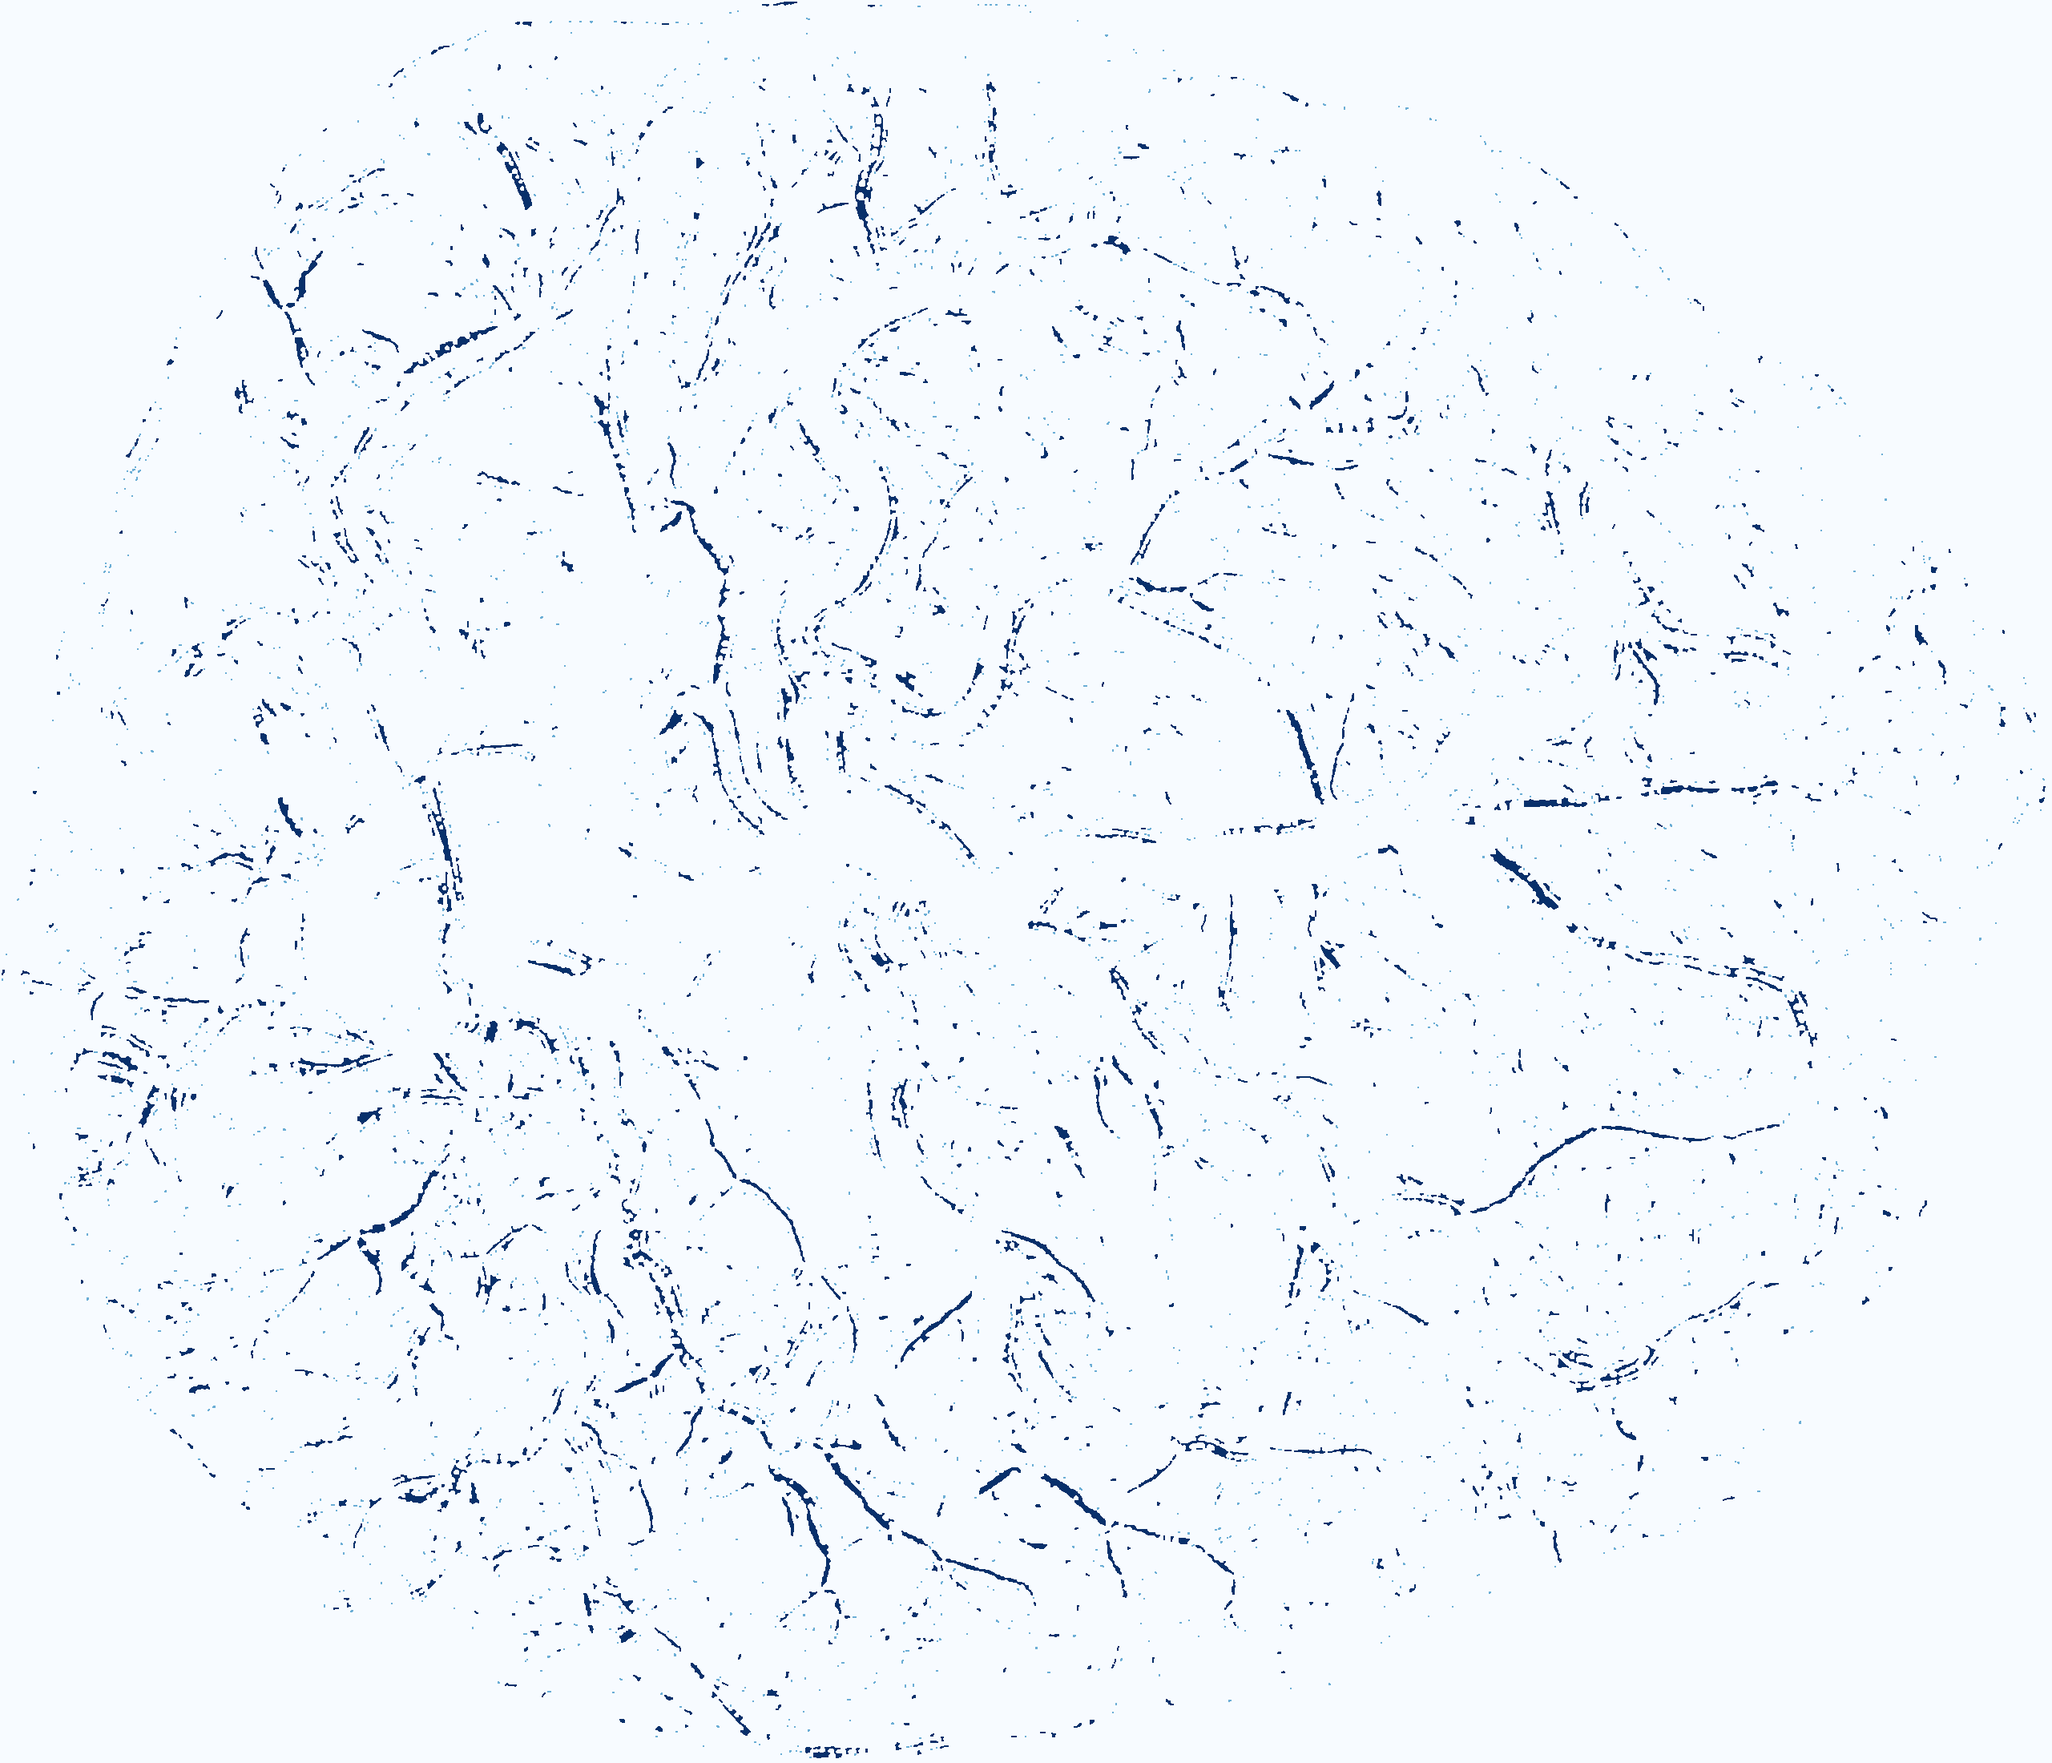
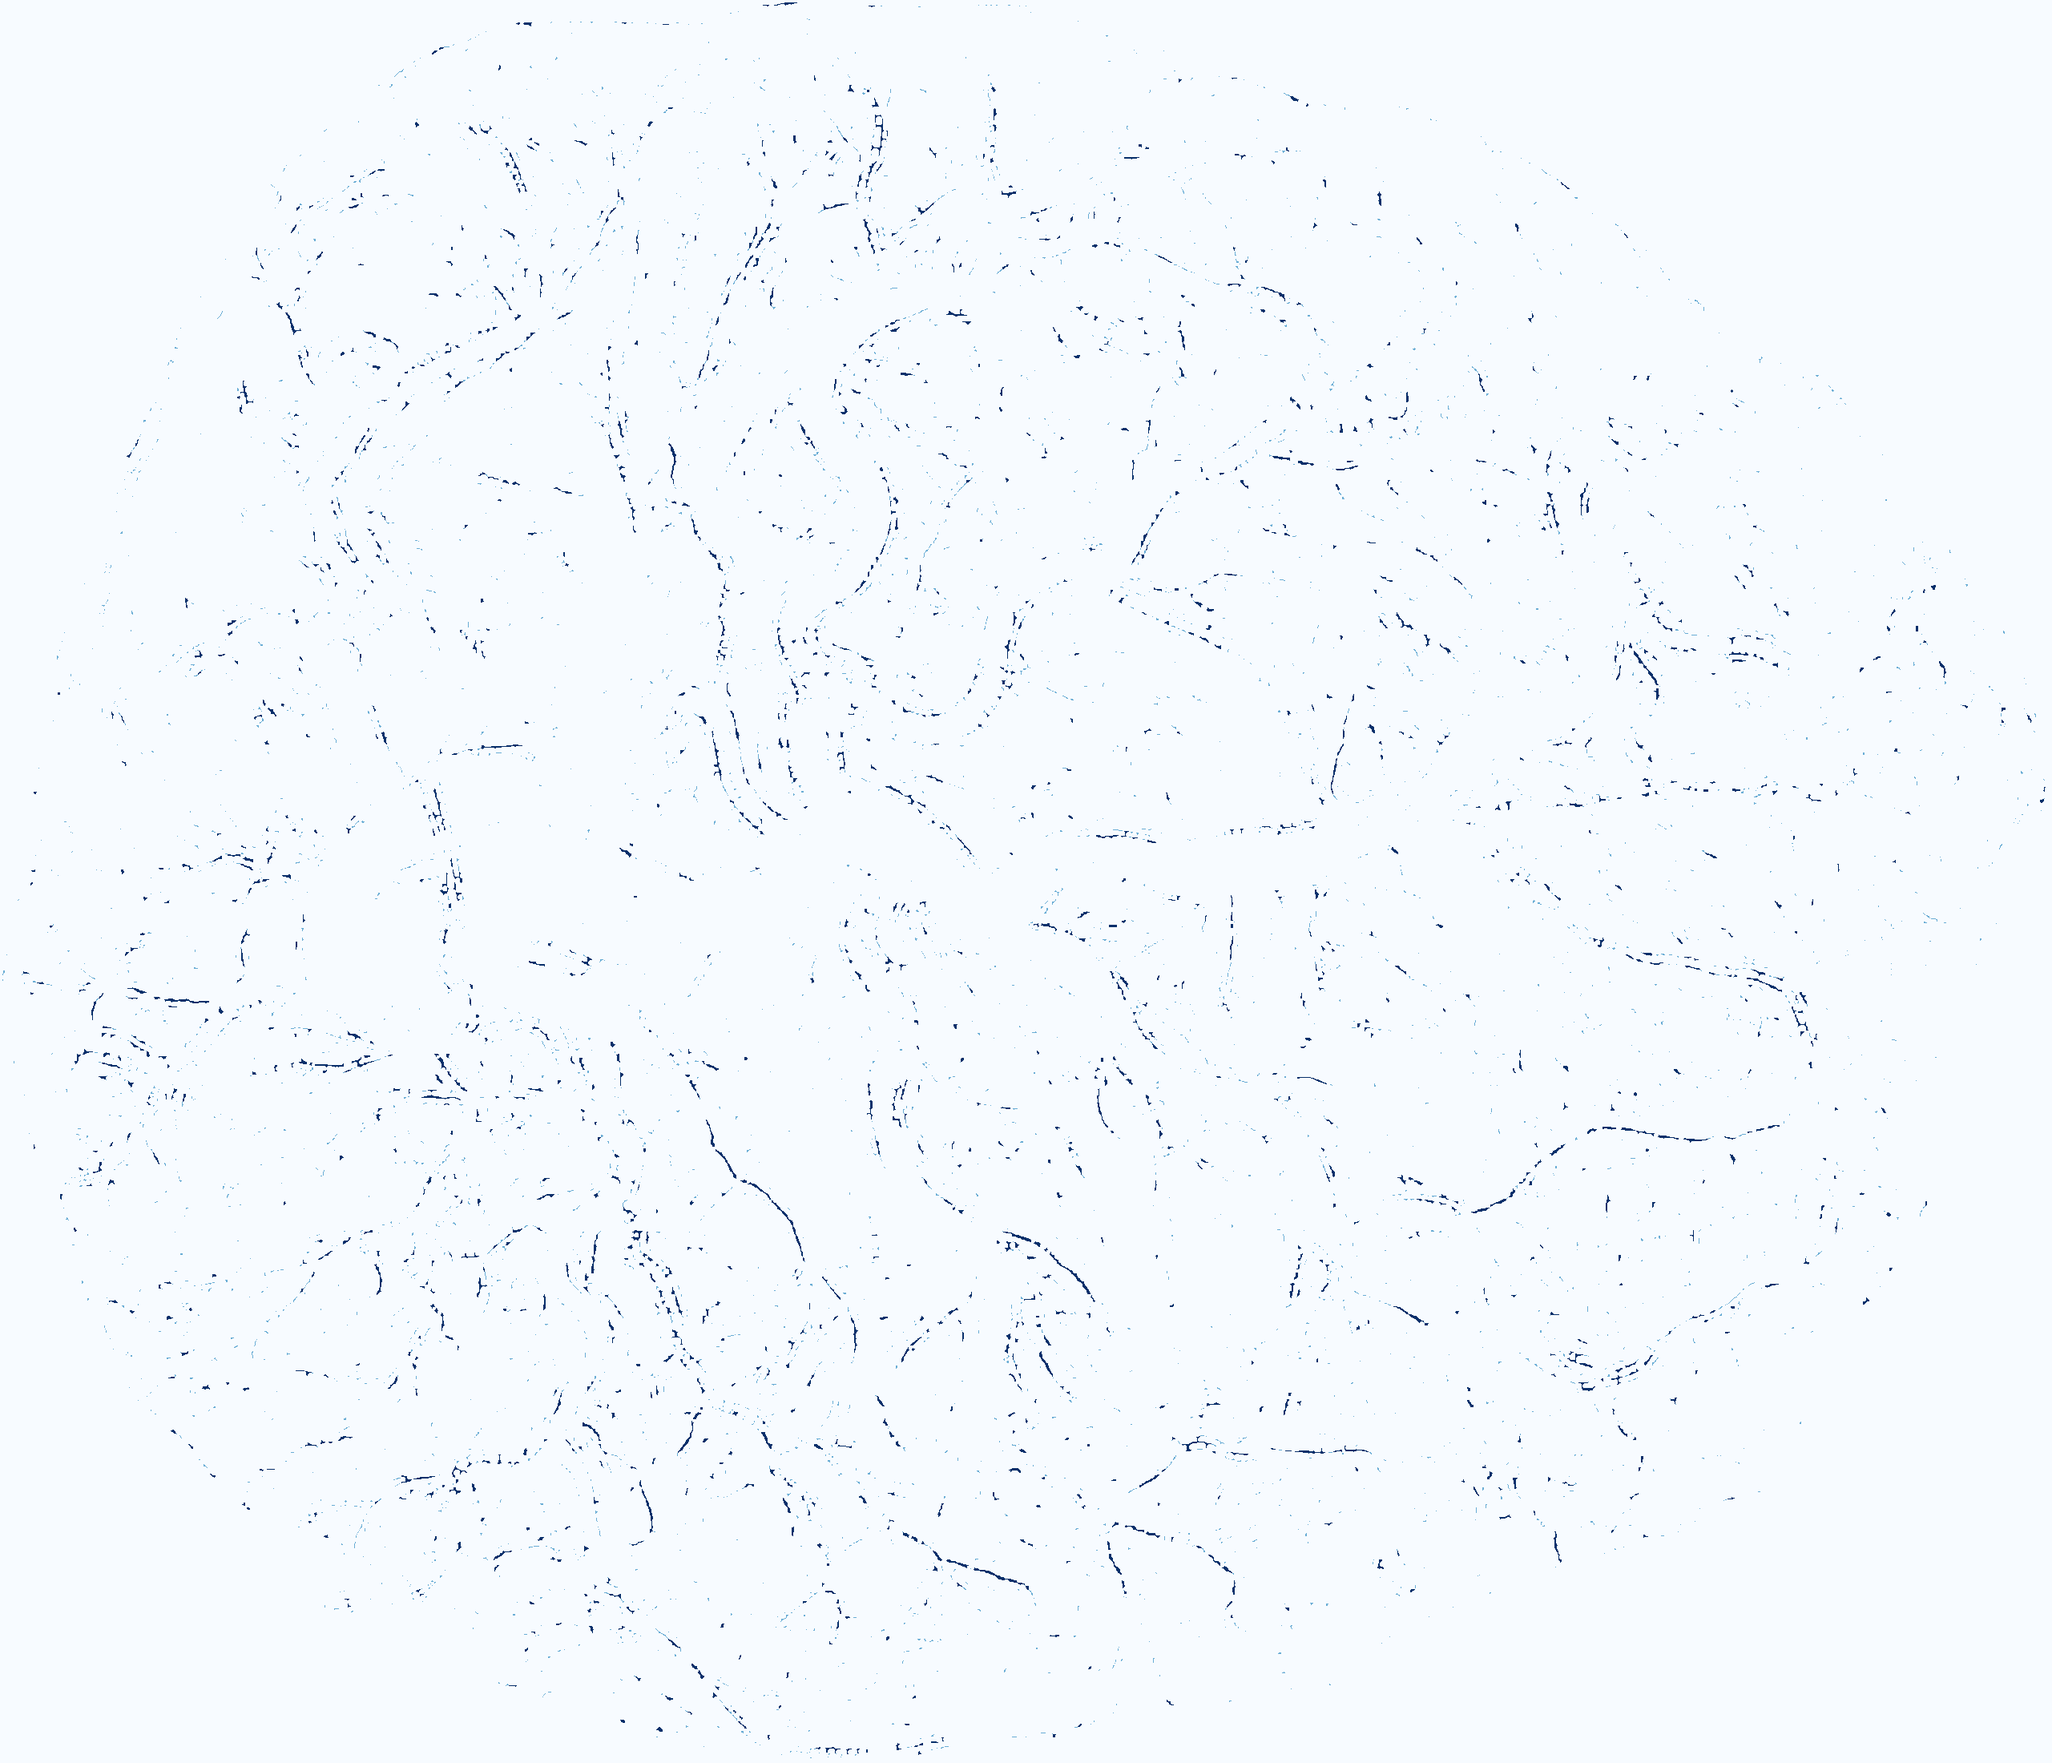
why do i track these outputs anyway

diff --git a/morphscale.py b/morphscale.py
@@ -12,6 +12,7 @@ import numpy.ma as ma
 
 from skimage.morphology import remove_small_holes, remove_small_objects, label
 from skimage.morphology import binary_dilation, binary_erosion
+from skimage.morphology import white_tophat, black_tophat
 from skimage.morphology import square, diamond, disk
 
 from skimage.exposure import rescale_intensity
@@ -20,9 +21,11 @@ from functools import partial
 
 MODE = 'G' # 'RGB' or 'G' or 'L'
 OUTPUT_DIR = 'RB_G/'
+VERBOSE = False
 
 
 pickles = glob('clahe_curvatures/*-{}.pickle'.format(MODE))
+#pickles = ['clahe_curvatures/K-0500-G.pickle']
 
 # combine all candidates (unsafely specify exact size :< )
 cumulative = np.zeros((2200,2561))
@@ -35,11 +38,13 @@ for n, pick in enumerate(sorted(pickles), 1):
 
     with open(pick, 'rb') as f:
         p = pickle.load(f)
-    
+
     K1 = p['K1']
     K2 = p['K2']
     sigma = p['sigma']
     
+    if sigma > 5:
+        continue
     # get 'structureness' for each channel at each pixel
     R = (K1 / K2)**2 
     S = K1**2 + K2**2 
@@ -51,11 +56,11 @@ for n, pick in enumerate(sorted(pickles), 1):
     # erode based on scale space
     erode_selem = disk(sigma+1)
     dilate_selem = disk(max(sigma-1, 1))
-    min_size = dilate_selem.sum()*3
+    min_size = dilate_selem.sum()*2
 
     targets = binary_erosion(targets, selem=erode_selem)
-    targets = binary_dilation(targets, selem=dilate_selem)
-     
+    #targets = binary_dilation(targets, selem=dilate_selem)
+    targets = white_tophat(targets, selem=disk(sigma))
 
     labeled, n_labels = label(targets, background=0,
                                 connectivity=1, return_num=True)
@@ -80,8 +85,10 @@ for n, pick in enumerate(sorted(pickles), 1):
     print('----------------\n',
           'for σ={},'.format(sigma),
           'there are {} 4-connected components.'.format(n_labels),
-          'showing largest {}.'.format(N),
-          '\n R_B stats:',
+          'showing largest {}.'.format(N))
+    if VERBOSE:
+        print(
+          'R_B stats:',
           '\n\tmean:', R.mean(),
           '\n\tmedian:', R_thresh, '(threshold)',
           '\n R_A stats:',
@@ -101,14 +108,16 @@ for n, pick in enumerate(sorted(pickles), 1):
     cumulative += candidates
     cumulative_all += (targets != 0).astype('uint8')
 else:
-    plt.imsave(os.path.join(OUTPUT_DIR, 'cumulative.png'),
-                cumulative, cmap=plt.cm.Blues) 
+    if len(pickles) > 1:
 
-    plt.imsave(os.path.join(OUTPUT_DIR, 'cumulative_binary.png'),
-                cumulative != 0, cmap=plt.cm.Blues) 
+        plt.imsave(os.path.join(OUTPUT_DIR, 'cumulative.png'),
+                    cumulative, cmap=plt.cm.Blues) 
 
-    plt.imsave(os.path.join(OUTPUT_DIR, 'cumulative_all.png'),
-                cumulative_all,  cmap=plt.cm.Blues) 
+        plt.imsave(os.path.join(OUTPUT_DIR, 'cumulative_binary.png'),
+                    cumulative != 0, cmap=plt.cm.Blues) 
 
-    plt.imsave(os.path.join(OUTPUT_DIR, 'cumulative_all_binary.png'),
-                cumulative_all != 0,  cmap=plt.cm.Blues) 
+        plt.imsave(os.path.join(OUTPUT_DIR, 'cumulative_all.png'),
+                    cumulative_all,  cmap=plt.cm.Blues) 
+
+        plt.imsave(os.path.join(OUTPUT_DIR, 'cumulative_all_binary.png'),
+                    cumulative_all != 0,  cmap=plt.cm.Blues) 

diff --git a/get_base.py b/get_base.py
@@ -32,6 +32,14 @@ def get_bg_mask(img):
 
     return bg_mask
 
+
+def get_trace():
+
+    t = ndi.imread('samples/trace.png', 'L');
+    t = t.astype('bool')
+
+    return np.invert(t)
+
 def get_masked_raw(mode='RGB'):
     
     if mode == 'G':
